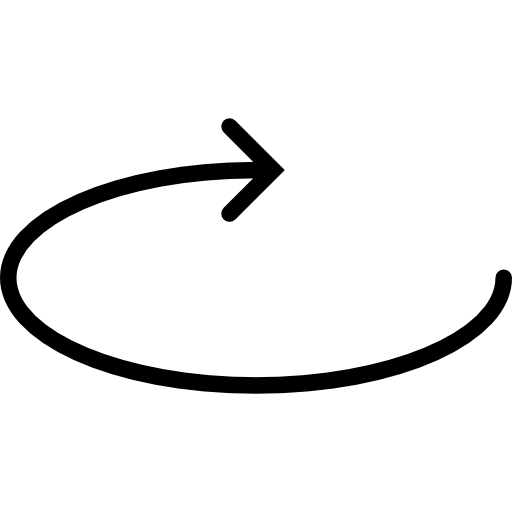
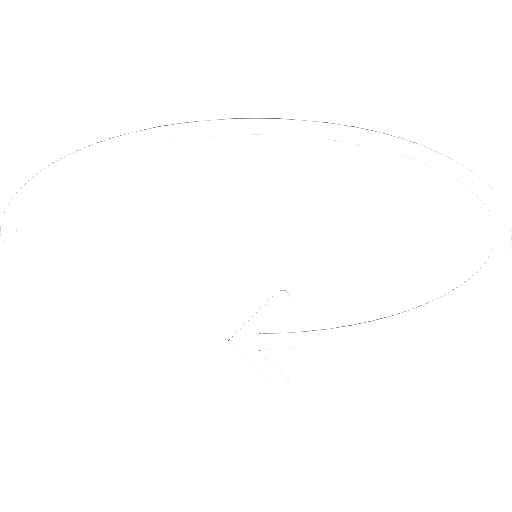
pin view added no functionality yet, testing changes to issuer metadata and credentials

Changed region(s): [[0.0, 0.2188, 1.0, 0.7812]]

diff --git a/frontend/src/components/IdentityCard.tsx b/frontend/src/components/IdentityCard.tsx
@@ -30,7 +30,7 @@ const IdentityCard: React.FC<IProps> = ({ card }) => {
   return (
     <FlipCard>
       <LinearGradient colors={gradientColour} className="rounded-xl">
-        <View className="w-80 min-h-[225px] rounded-md">
+        <View className="w-80 h-[225px] rounded-md">
           <View className="flex-row justify-between">
             <Pressable onPress={handleCardPress} className="flex-1">
               <Text className="text-2xl text-white font-bold pt-4 px-4">{card.name}</Text>
@@ -41,7 +41,14 @@ const IdentityCard: React.FC<IProps> = ({ card }) => {
                 <Text className="text-md w-fit text-white px-4">{card.description}</Text>
               )}
             </Pressable>
-            <View className="w-12 h-14 p-2 mr-4">
+            <View className="w-10 h-10 p-2 mt-3 mr-10 flex flex-row gap-x-1">
+              <Image
+                source={
+                  card.pinned ? require('../assets/pinned.png') : require('../assets/pin.png')
+                }
+                className="w-full h-full"
+                resizeMode="contain"
+              />
               <Image
                 source={require('../assets/fliparrow.png')}
                 className="w-full h-full"
@@ -64,20 +71,27 @@ const IdentityCard: React.FC<IProps> = ({ card }) => {
       </LinearGradient>
 
       <LinearGradient colors={gradientColour} className="rounded-xl">
-        <View className="min-h-[225px] w-80 pb-6 mx-auto rounded-md overflow-hidden">
+        <View className="h-[225px] w-80 pb-6 mx-auto rounded-md overflow-hidden">
           <View className="flex-row justify-between">
             <Pressable onPress={handleCardPress} className="flex-1">
               <Text className="text-2xl text-white font-bold px-4 pb-0 pt-4">{card.name}</Text>
             </Pressable>
-            <View className="w-12 h-14 p-2 mr-4">
+            <View className="w-10 h-10 p-2 mt-3 mr-10 flex flex-row gap-x-1">
+              <Image
+                source={
+                  card.pinned ? require('../assets/pinned.png') : require('../assets/pin.png')
+                }
+                className="w-full h-full"
+                resizeMode="contain"
+              />
               <Image
                 source={require('../assets/fliparrow.png')}
-                className="w-full h-full"
+                className="w-full h-full scale-x-[-1]"
                 resizeMode="contain"
               />
             </View>
           </View>
-          <Pressable onPress={handleCardPress} className="mx-4 pt-2">
+          <Pressable onPress={handleCardPress} className="mx-4 pt-2 max-h-[150px]">
             <View className="mb-2 flex flex-row">
               <Text className="font-bold text-base text-white">Issued by: </Text>
               <Text className="text-white text-base">{normaliseURL(card.credIssuedBy)}</Text>

diff --git a/frontend/src/screens/ViewScreen.tsx b/frontend/src/screens/ViewScreen.tsx
@@ -1,5 +1,5 @@
 import React, { useState } from 'react';
-import { View, Text, Pressable, Modal } from 'react-native';
+import { View, Text, Pressable, Modal, Image } from 'react-native';
 import { useRoute, RouteProp, useNavigation } from '@react-navigation/native';
 import Header from '../components/Header';
 import Footer from '../components/Footer';
@@ -69,7 +69,8 @@ const ViewScreen: React.FC = () => {
         </LinearGradient>
 
         <View className="w-[90%] bg-card-view-grey rounded-2xl space-y-5 p-5">
-          <View className="p-3 bg-popup-grey rounded-lg justify-around">
+          <View className="pt-3 pb-3 bg-popup-grey rounded-lg flex flex-row justify-start">
+            <Image source={require('../assets/pin.png')} className="h-5 w-5 ml-2.5 mr-1.5" />
             <Text className="text-white font-bold">Pin to Wallet</Text>
           </View>
           <View className="w-[100%] bg-popup-grey flex-row p-3 space-x-5 rounded-2xl">

diff --git a/frontend/src/components/IssueCredentialList.tsx b/frontend/src/components/IssueCredentialList.tsx
@@ -25,9 +25,13 @@ function IssueCredentialList({ issuerMetadata }: Props): JSX.Element {
       const keys = JSON.parse((await AsyncStorage.getItem('keys')) ?? '[]');
       keys.push(selectedCredential);
       await AsyncStorage.setItem('keys', JSON.stringify(keys));
-      await Keychain.setGenericPassword(selectedCredential, JSON.stringify(response.data), {
-        service: selectedCredential,
-      });
+      await Keychain.setGenericPassword(
+        selectedCredential,
+        JSON.stringify({ ...response.data, pinned: false }),
+        {
+          service: selectedCredential,
+        }
+      );
       setModalVisible(true);
     } catch (error) {
       Alert.alert('Sorry!', "We're having trouble processing this right now.");

diff --git a/frontend/src/helper/normalise.ts b/frontend/src/helper/normalise.ts
@@ -25,12 +25,13 @@ const normaliseCredential = (index: number, name: string, credential: string): C
     issuanceDate: JSONCredential.issuanceDate,
     expiryDate: JSONCredential.expirationDate || '',
     originalName,
+    pinned: JSONCredential.pinned,
   } as Card;
 };
 
 export const normaliseKey = (key: string): string => {
   key = key.replace(/([A-Z])/g, ' $1');
-  if (key.includes(' ')) key = key.split(' ')[0] as string;
+  //if (key.includes(' ')) key = key.split(' ')[0] as string;
   return key.charAt(0).toUpperCase() + key.slice(1);
 };
 

diff --git a/frontend/src/screens/HomeScreen.tsx b/frontend/src/screens/HomeScreen.tsx
@@ -72,7 +72,7 @@ function HomeScreen(): JSX.Element {
           onChangeText={setSearchQuery}
         />
       </View>
-      <ScrollView className="w-full">
+      <ScrollView className="w-full max-h-[67%]">
         <IdentityCardList cards={searchQuery ? filteredCards : cards} />
       </ScrollView>
       <Footer />

diff --git a/frontend/src/config/types.ts b/frontend/src/config/types.ts
@@ -87,6 +87,7 @@ export type VerifiableCredential = {
   credentialSubject: {
     [key: string]: object | string;
   };
+  pinned: boolean;
   proof: Proof;
 };
 
@@ -109,4 +110,5 @@ export type Card = {
   issuanceDate: string;
   expiryDate: string;
   originalName: string;
+  pinned: boolean;
 };
